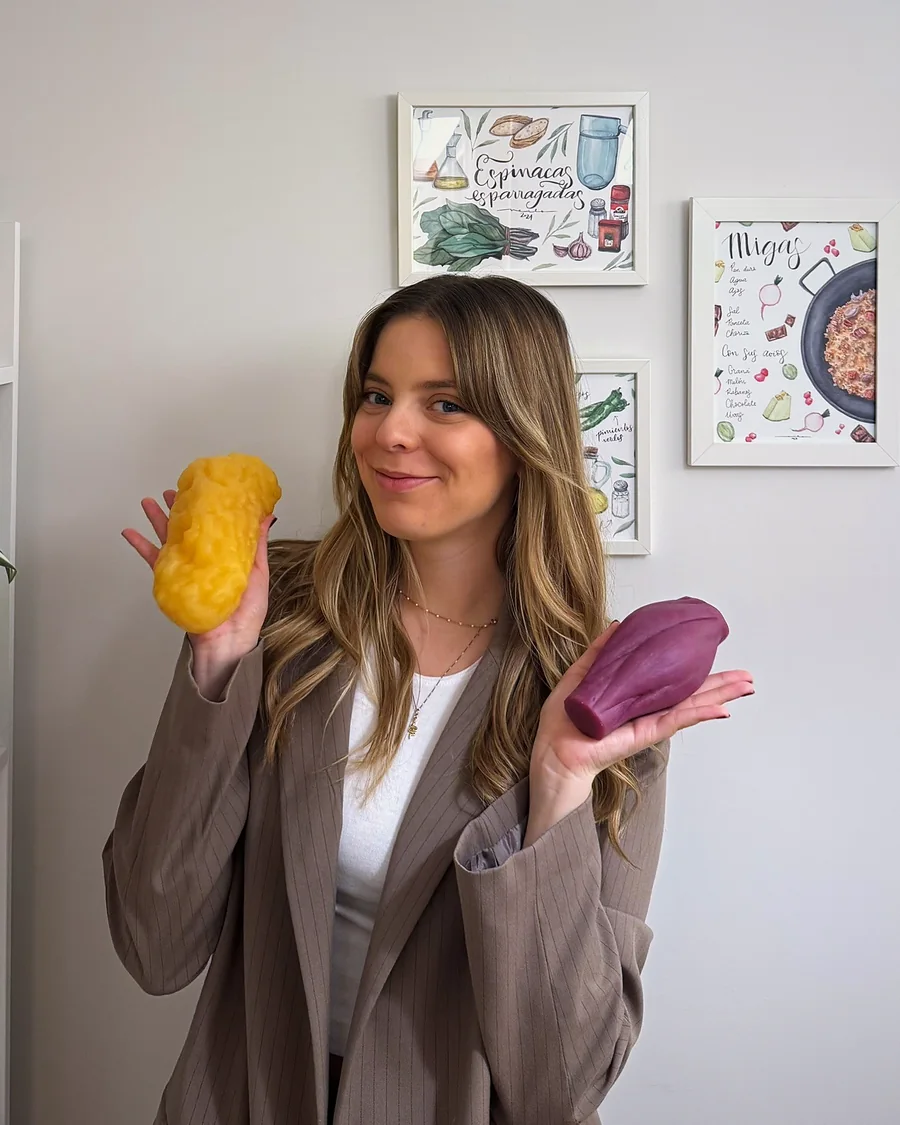
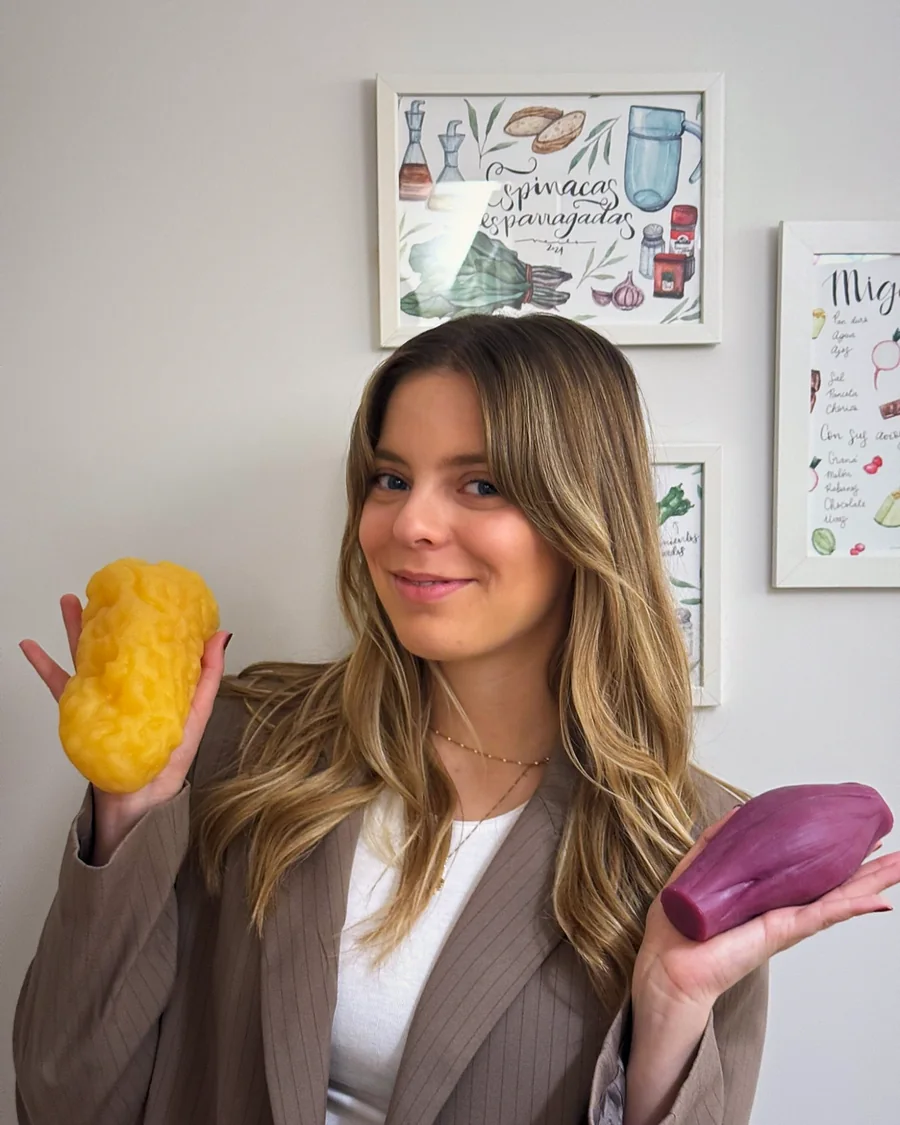
Nueva foto con las réplicas en Sobre mí

diff --git a/index.html b/index.html
@@ -88,7 +88,7 @@
   <section class="section" id="sobre-mi" aria-labelledby="sobre-t">
     <div class="wrap about">
       <div class="about-visual">
-        <img class="photo" src="assets/fotos/isabel-replicas.webp" alt="Isabel Lara en su consulta con réplicas de alimentos, delante de láminas de cocina de Jaén" width="900" height="1125" loading="lazy">
+        <img class="photo" src="assets/fotos/isabel-replicas.webp?v=2" alt="Isabel Lara en su consulta con réplicas de alimentos, delante de láminas de cocina de Jaén" width="900" height="1125" loading="lazy">
         <img class="deco-aguacate" src="assets/aguacate.webp" alt="" width="418" height="612" loading="lazy" data-parallax="0.18">
       </div>
       <div class="about-text">
